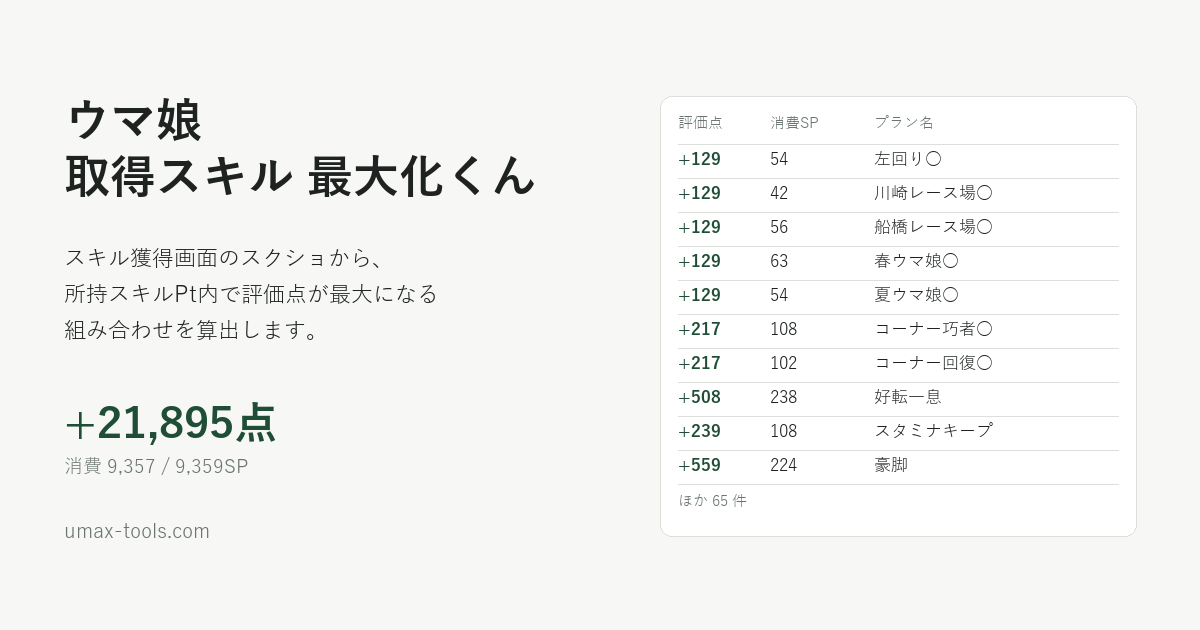
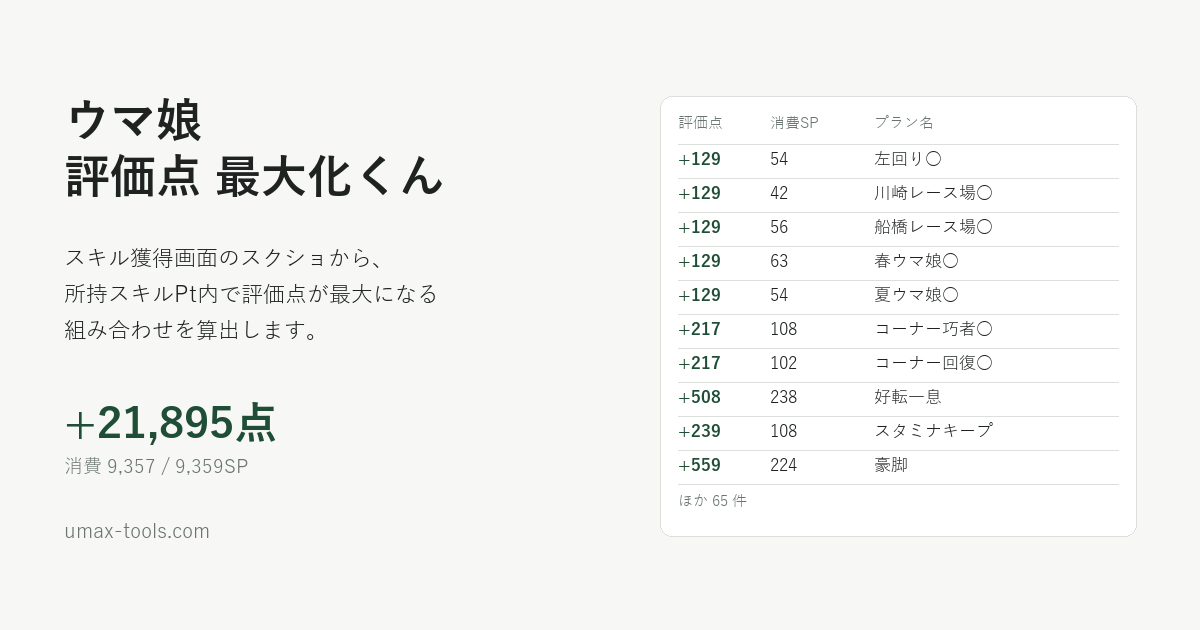
Add files via upload

Changed region(s): [[0.0308, 0.2413, 0.4625, 0.3317]]

diff --git a/index.html b/index.html
@@ -1,12 +1,13 @@
+<!DOCTYPE html>
 <meta charset="utf-8">
 <meta name="viewport" content="width=device-width, initial-scale=1, viewport-fit=cover">
 <link rel="icon" href="favicon.ico" sizes="any">
 <link rel="apple-touch-icon" href="apple-touch-icon.png">
-<title>ウマ娘 取得スキル 最大化くん</title>
+<title>ウマ娘 評価点 最大化くん</title>
 <meta name="description" content="スクリーンショットを選ぶだけで、所持スキルポイントの範囲で評価点が最大になるスキルの組み合わせを計算します。画像は端末外に送信しません。">
 <meta property="og:type" content="website">
-<meta property="og:site_name" content="ウマ娘 取得スキル 最大化くん">
-<meta property="og:title" content="ウマ娘 取得スキル 最大化くん">
+<meta property="og:site_name" content="ウマ娘 評価点 最大化くん">
+<meta property="og:title" content="ウマ娘 評価点 最大化くん">
 <meta property="og:description" content="スキル獲得画面のスクショから、所持スキルPt内で評価点が最大になる組み合わせを算出します。">
 <meta property="og:url" content="https://umax-tools.com/">
 <meta property="og:image" content="https://umax-tools.com/ogp.png">
@@ -230,7 +231,7 @@
   .siteFooter a { color: var(--muted); }
 </style>
 
-<h1>ウマ娘 取得スキル 最大化くん</h1>
+<h1>ウマ娘 評価点 最大化くん</h1>
 <p class="lead">スキル獲得画面のスクショをもとに、評価点が最大になる取得スキルを一覧にします。<br>
 画像は端末外に送信しません。画像の処理はすべてこのブラウザ内で完結します。<br>
 動作確認は制作者のスマートフォンでのみ行っています（<b>PC・タブレットは未対応</b>）。
@@ -272,9 +273,18 @@
       <option value="">なし（所持SP内で最大化）</option>
     </select>
   </div>
+  <!-- 保有Ptはヘッダーから自動で読むが、画面比率の違う端末では読めないことがある。
+       読めないと予算が決まらず計算そのものが止まるため、逃げ道として手入力を用意する
+       （ステータス・適性は確認パネルで直せるのに、ここだけ直せなかった）。 -->
+  <div class="optRow">
+    <label for="manualSkillPoints" class="sub">保有スキルPt</label>
+    <input type="number" id="manualSkillPoints" min="0" placeholder="自動（空欄で自動読み取り）">
+  </div>
   <template data-info-body="opt">
     <b>固有スキルLv</b>は手動で選択してください。<br>
-    <b>目標評価ランク</b>を選ぶと、そのランクの上限を超えない範囲で評価点が最大になるよう選びます。
+    <b>目標評価ランク</b>を選ぶと、そのランクの上限を超えない範囲で評価点が最大になるよう選びます。<br>
+    <b>保有スキルPt</b>は空欄なら②のヘッダーから自動で読み取ります。読み取りに失敗したときや、
+    値が違っていたときだけ入力してください。入力した値が優先されます。
   </template>
 </section>
 
@@ -408,6 +418,7 @@ function recognizeDetailViaWorker(file) {
 // ===== 実行状態（曖昧行のユーザー確認→再計算のために保持する） =====
 const session = {
   recognizedRows: [], aptitudes: null, skillPointsGuess: null,
+  autoSkillPoints: null, // ヘッダーから読み取った保有Pt。手入力を消したときの戻り先。
   budget: null, characterCardId: null, thumbnailUrls: [], evolutionChoices: {},
   stats: null,           // 詳細画面OCRの5ステータス現在値 { speed, ... }
   uniqueSkillLv: 6,      // 固有スキルLv（1〜6・OCR不可のため選択入力。既定=最大）
@@ -469,6 +480,18 @@ document.getElementById("uniqueLv").addEventListener("change", (e) => {
 document.getElementById("targetRank").addEventListener("change", (e) => {
   session.targetRankName = e.target.value;
   if (session.hasRun) recalcAndRender();
+});
+// 保有Ptは計算後でも直せるようにする。読み取り値が違っていたとき、
+// スクショを選び直して最初からやり直すのは重い。
+document.getElementById("manualSkillPoints").addEventListener("change", (e) => {
+  const points = parseInt(e.target.value, 10);
+  if (!session.hasRun) return;
+  // 空欄に戻したら自動読み取り値へ復帰する。読めていなければ計算できないので何もしない。
+  const next = Number.isFinite(points) && points >= 0 ? points : session.autoSkillPoints;
+  if (!next) return;
+  session.budget = next;
+  session.skillPointsGuess = next;
+  recalcAndRender();
 });
 
 function revokeThumbnailUrls() {
@@ -1159,14 +1182,18 @@ async function run() {
       await recognizeDetailViaWorker(detailFile);
     const aptitudes = aptitudeRanksToKeys(aptitudeRanks);
 
-    const budget = skillPointsGuess;
+    // 手入力があればそれを使う。読み取り値より、利用者が画面を見て入れた値の方が確かなため。
+    const manualPoints = parseInt(document.getElementById("manualSkillPoints").value, 10);
+    const budget = Number.isFinite(manualPoints) && manualPoints >= 0 ? manualPoints : skillPointsGuess;
     if (!budget) {
-      setStatus("①のスクリーンショットから保有スキルポイントを自動取得できませんでした。ヘッダーに「現在のスキルPt」が写っている画像を含めてください。");
+      setStatus("②のスクリーンショットから保有スキルPtを読み取れませんでした。"
+              + "ヘッダーの「現在のスキルPt」が写っている画像を含めるか、③の「保有スキルPt」に手入力してください。");
       return;
     }
 
     session.recognizedRows = recognizedRows;
-    session.skillPointsGuess = skillPointsGuess;
+    session.autoSkillPoints = skillPointsGuess;
+    session.skillPointsGuess = budget;
     session.aptitudes = aptitudes;
     session.budget = budget;
     session.characterCardId = characterCardId;

diff --git a/usage.html b/usage.html
@@ -1,12 +1,13 @@
+<!DOCTYPE html>
 <meta charset="utf-8">
 <meta name="viewport" content="width=device-width, initial-scale=1">
 <link rel="icon" href="favicon.ico" sizes="any">
 <link rel="apple-touch-icon" href="apple-touch-icon.png">
-<title>使い方 ― ウマ娘 取得スキル 最大化くん</title>
+<title>使い方 ― ウマ娘 評価点 最大化くん</title>
 <meta name="description" content="スクリーンショットを選ぶだけで、所持スキルポイントの範囲で評価点が最大になるスキルの組み合わせを計算します。画像は端末外に送信しません。">
 <meta property="og:type" content="website">
-<meta property="og:site_name" content="ウマ娘 取得スキル 最大化くん">
-<meta property="og:title" content="使い方 ― ウマ娘 取得スキル 最大化くん">
+<meta property="og:site_name" content="ウマ娘 評価点 最大化くん">
+<meta property="og:title" content="使い方 ― ウマ娘 評価点 最大化くん">
 <meta property="og:description" content="スキル獲得画面のスクショから、所持スキルPt内で評価点が最大になる組み合わせを算出します。">
 <meta property="og:url" content="https://umax-tools.com/usage.html">
 <meta property="og:image" content="https://umax-tools.com/ogp.png">
@@ -43,6 +44,7 @@
 <ul>
   <li><b>固有スキルLv</b> … 手動で選択してください。既定はLv6（最大）です。</li>
   <li><b>目標評価ランク</b> … 選ぶと、そのランクの上限を超えない範囲で評価点が最大になるよう選びます。空欄なら所持スキルポイント内で最大化します。</li>
+  <li><b>保有スキルPt</b> … 空欄なら②のヘッダーから自動で読み取ります。読み取りに失敗したときや、値が違っていたときだけ入力してください。入力した値が優先されます。</li>
 </ul>
 
 <h2>手順4: 計算する</h2>
@@ -96,7 +98,9 @@
 
 <h3 style="font-size:14px;margin:16px 0 4px">保有スキルポイントはどこから取っていますか？</h3>
 <p>スキル獲得画面の上部に表示されている「現在のスキルPt」から自動で読み取ります。
-ヘッダーが写っていない画像だけだと読み取れないため、その場合はエラーになります。</p>
+ヘッダーが写っていない画像だけだと読み取れません。その場合は、③の設定にある
+<b>「保有スキルPt」に手入力</b>すれば計算できます。読み取った値が違っていたときも、
+同じ欄に入力すれば入力値が優先されます。</p>
 
 <h3 style="font-size:14px;margin:16px 0 4px">複数のウマ娘のスクリーンショットが混ざるとどうなりますか？</h3>
 <p>保有スキルポイントの食い違いから検知して、計算を中断します。1キャラ分だけを選び直してください。</p>

diff --git a/privacy.html b/privacy.html
@@ -1,12 +1,13 @@
+<!DOCTYPE html>
 <meta charset="utf-8">
 <meta name="viewport" content="width=device-width, initial-scale=1">
 <link rel="icon" href="favicon.ico" sizes="any">
 <link rel="apple-touch-icon" href="apple-touch-icon.png">
-<title>プライバシーポリシー ― ウマ娘 取得スキル 最大化くん</title>
+<title>プライバシーポリシー ― ウマ娘 評価点 最大化くん</title>
 <meta name="description" content="スクリーンショットを選ぶだけで、所持スキルポイントの範囲で評価点が最大になるスキルの組み合わせを計算します。画像は端末外に送信しません。">
 <meta property="og:type" content="website">
-<meta property="og:site_name" content="ウマ娘 取得スキル 最大化くん">
-<meta property="og:title" content="プライバシーポリシー ― ウマ娘 取得スキル 最大化くん">
+<meta property="og:site_name" content="ウマ娘 評価点 最大化くん">
+<meta property="og:title" content="プライバシーポリシー ― ウマ娘 評価点 最大化くん">
 <meta property="og:description" content="スキル獲得画面のスクショから、所持スキルPt内で評価点が最大になる組み合わせを算出します。">
 <meta property="og:url" content="https://umax-tools.com/privacy.html">
 <meta property="og:image" content="https://umax-tools.com/ogp.png">

diff --git a/contact.html b/contact.html
@@ -1,12 +1,13 @@
+<!DOCTYPE html>
 <meta charset="utf-8">
 <meta name="viewport" content="width=device-width, initial-scale=1">
 <link rel="icon" href="favicon.ico" sizes="any">
 <link rel="apple-touch-icon" href="apple-touch-icon.png">
-<title>お問い合わせ ― ウマ娘 取得スキル 最大化くん</title>
+<title>お問い合わせ ― ウマ娘 評価点 最大化くん</title>
 <meta name="description" content="スクリーンショットを選ぶだけで、所持スキルポイントの範囲で評価点が最大になるスキルの組み合わせを計算します。画像は端末外に送信しません。">
 <meta property="og:type" content="website">
-<meta property="og:site_name" content="ウマ娘 取得スキル 最大化くん">
-<meta property="og:title" content="お問い合わせ ― ウマ娘 取得スキル 最大化くん">
+<meta property="og:site_name" content="ウマ娘 評価点 最大化くん">
+<meta property="og:title" content="お問い合わせ ― ウマ娘 評価点 最大化くん">
 <meta property="og:description" content="スキル獲得画面のスクショから、所持スキルPt内で評価点が最大になる組み合わせを算出します。">
 <meta property="og:url" content="https://umax-tools.com/contact.html">
 <meta property="og:image" content="https://umax-tools.com/ogp.png">

diff --git a/terms.html b/terms.html
@@ -1,12 +1,13 @@
+<!DOCTYPE html>
 <meta charset="utf-8">
 <meta name="viewport" content="width=device-width, initial-scale=1">
 <link rel="icon" href="favicon.ico" sizes="any">
 <link rel="apple-touch-icon" href="apple-touch-icon.png">
-<title>利用規約 ― ウマ娘 取得スキル 最大化くん</title>
+<title>利用規約 ― ウマ娘 評価点 最大化くん</title>
 <meta name="description" content="スクリーンショットを選ぶだけで、所持スキルポイントの範囲で評価点が最大になるスキルの組み合わせを計算します。画像は端末外に送信しません。">
 <meta property="og:type" content="website">
-<meta property="og:site_name" content="ウマ娘 取得スキル 最大化くん">
-<meta property="og:title" content="利用規約 ― ウマ娘 取得スキル 最大化くん">
+<meta property="og:site_name" content="ウマ娘 評価点 最大化くん">
+<meta property="og:title" content="利用規約 ― ウマ娘 評価点 最大化くん">
 <meta property="og:description" content="スキル獲得画面のスクショから、所持スキルPt内で評価点が最大になる組み合わせを算出します。">
 <meta property="og:url" content="https://umax-tools.com/terms.html">
 <meta property="og:image" content="https://umax-tools.com/ogp.png">
